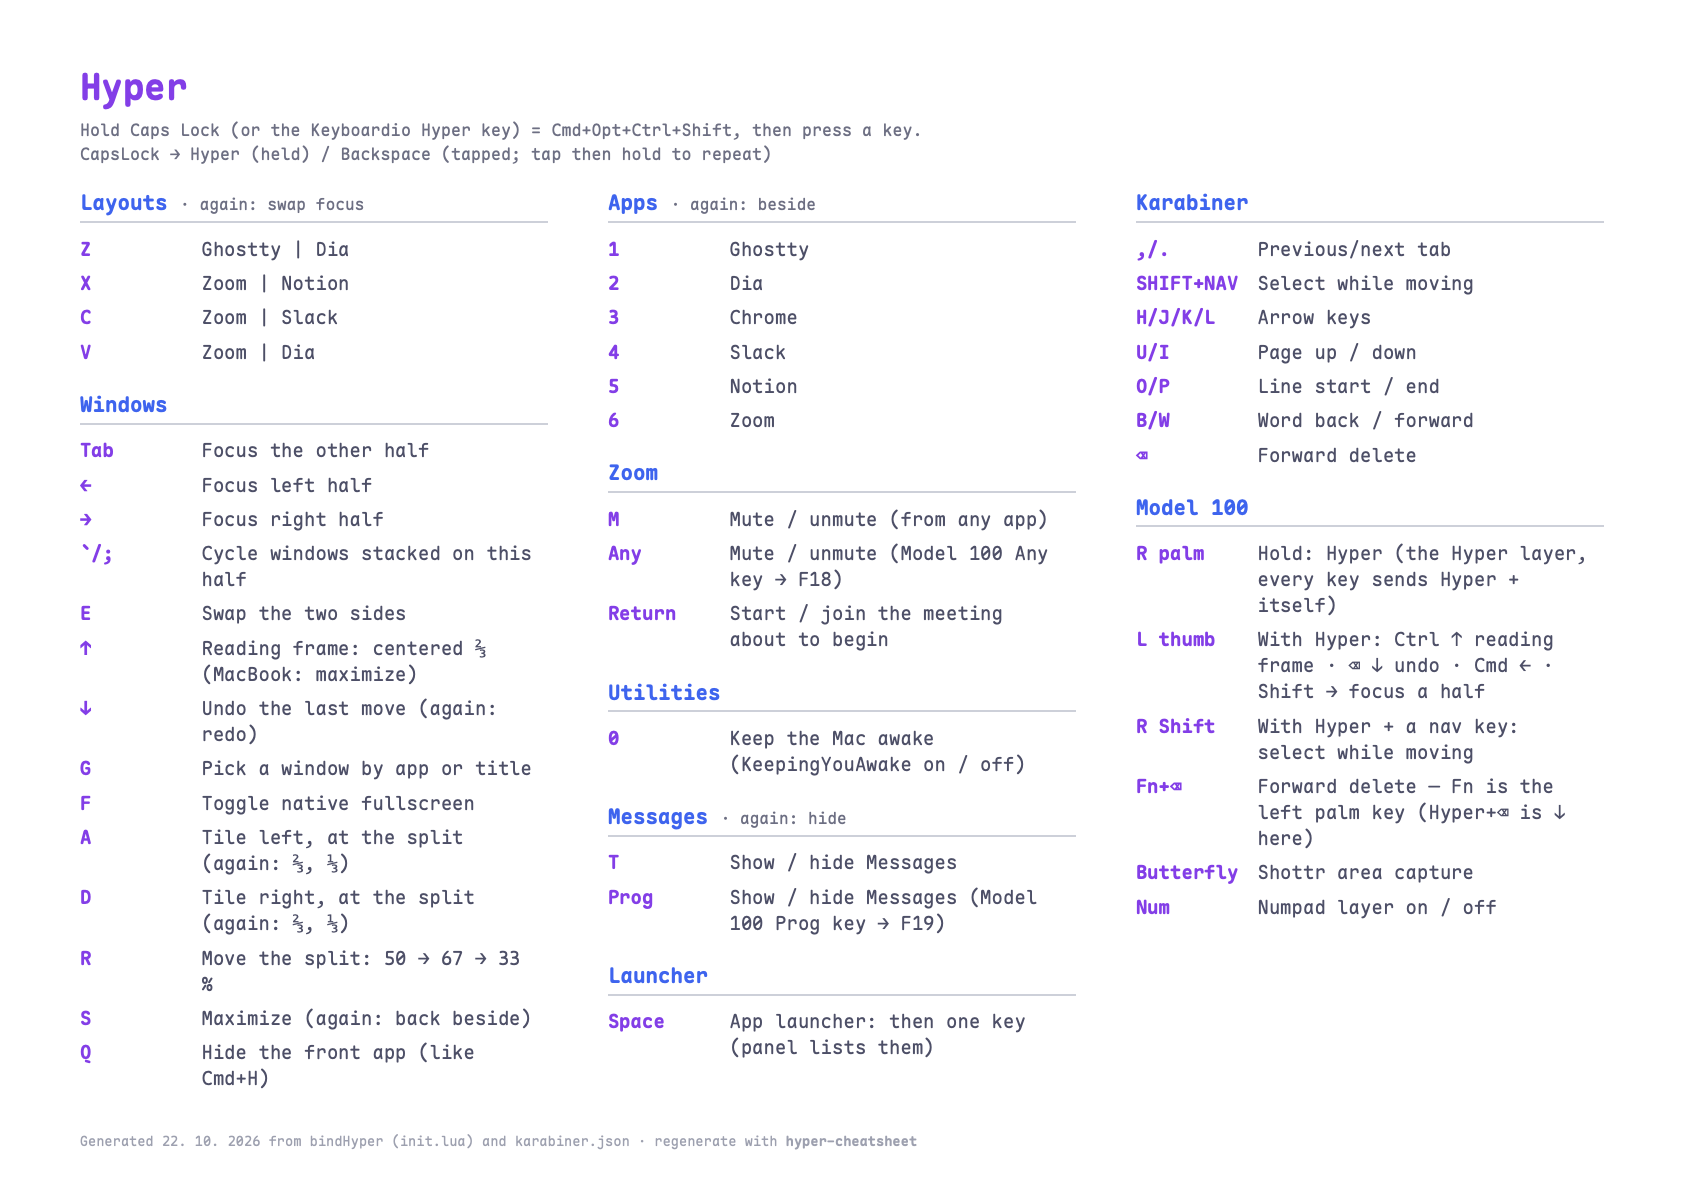
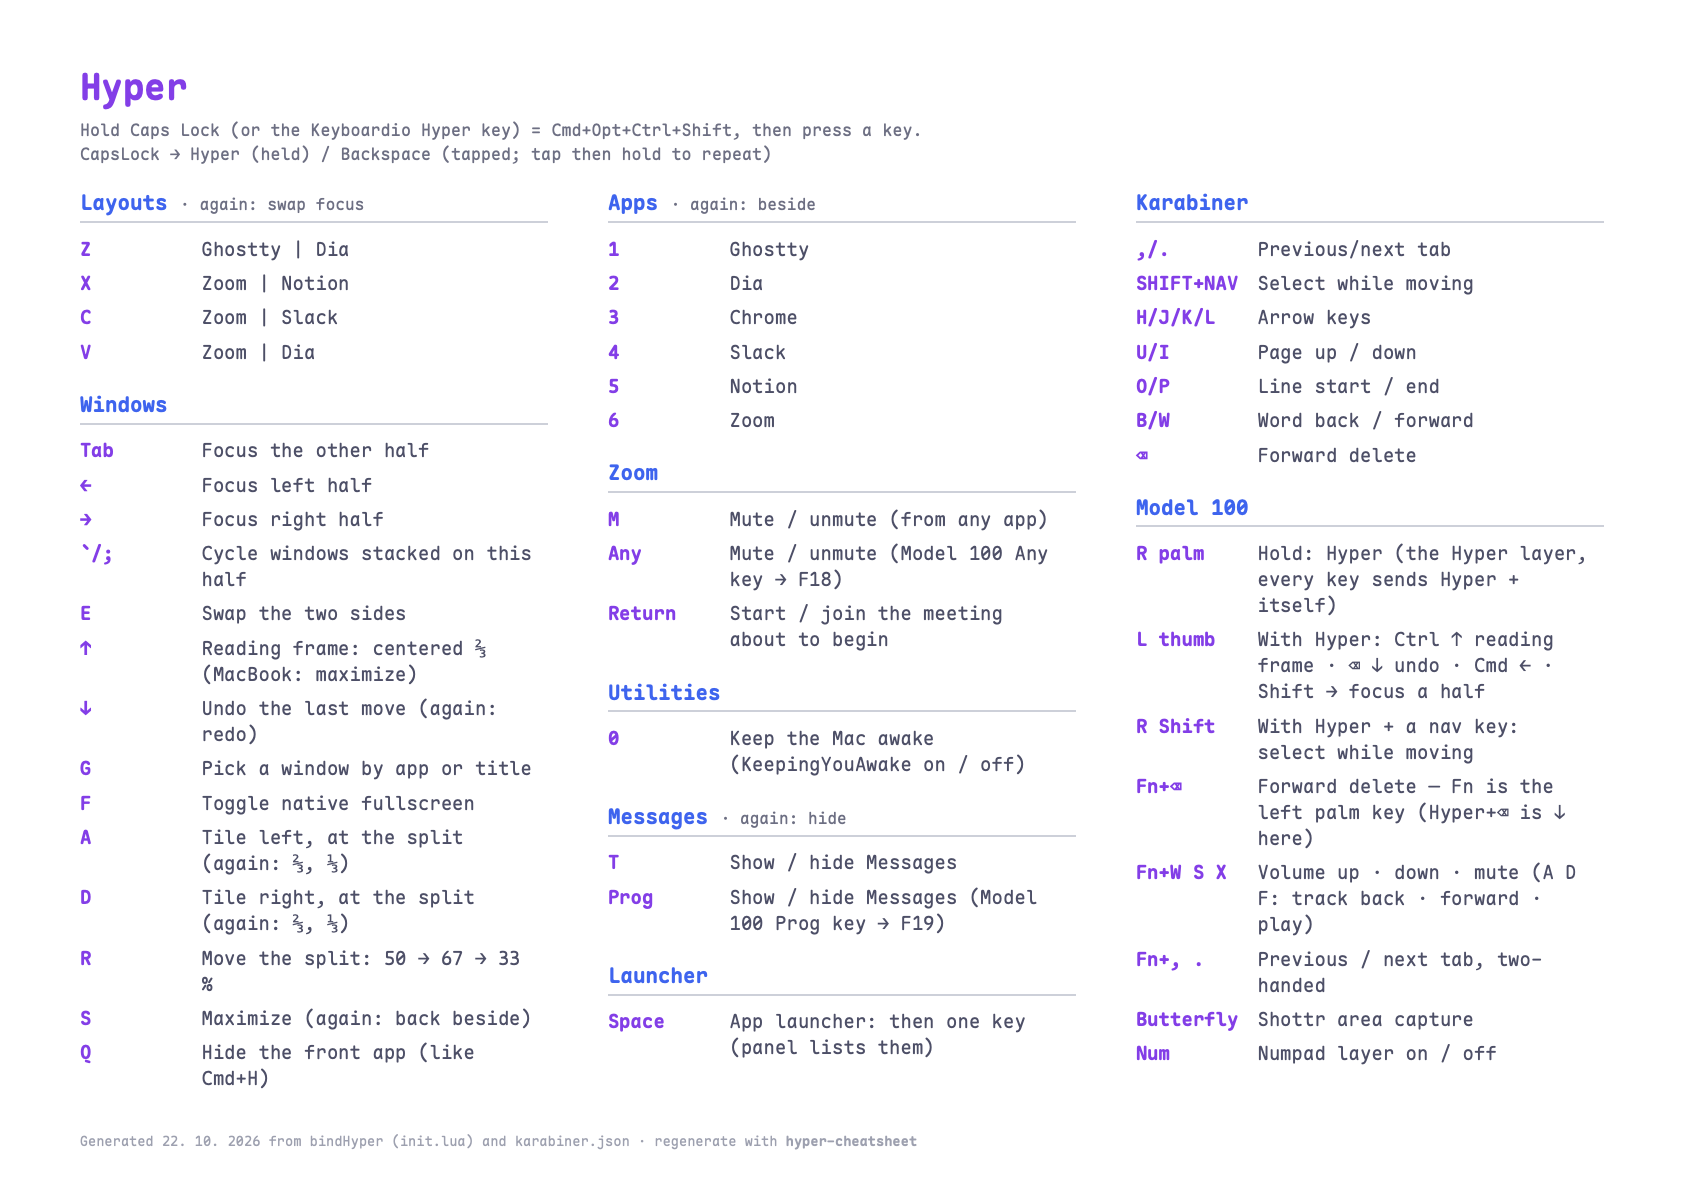
Keyboardio: media keys on WASD, Fn+,/. switch tabs
The stock Function layer put mute, volume down and volume up on N M , —
a row with no hint of which key goes which way. They move to WASD by
direction (W/S volume, X mute, A/D track, F play), where the mouse keys
were. Fn+,/. send Hyper+,/. so tab switching is a two-hand chord: Hyper is
the right palm, the same hand as , and . — Karabiner's tab rule does the
rest.

Dropped what a Mac with a trackpad never uses: mouse keys and warp,
Home/End, Print Screen, Insert, Caps Lock, Fn+Space = Enter. The layer is
now set by keyboardio-layers (FN_KEYS), so --apply keeps it.

Claude-Session: https://claude.ai/code/session_017TY8oaY6tYcNLjVXA5D1E8

Changed region(s): [[0.6793, 0.7151, 0.9264, 0.9017]]

diff --git a/GUIDE.md b/GUIDE.md
@@ -23,7 +23,7 @@ everything at once.
 | Command palette (every action, searchable) | `Cmd+Shift+P` |
 | Edit config | `Cmd+,` |
 | Reload config | `Cmd+Shift+,` |
-| Previous / next tab | `Hyper+,` / `Hyper+.` (Karabiner), `Ctrl+Shift+Tab` / `Ctrl+Tab`, or `Cmd+Shift+[` / `]` (U.S. layout only) |
+| Previous / next tab | `Hyper+,` / `Hyper+.` (Karabiner; Model 100: also `Fn+,` / `Fn+.`), `Ctrl+Shift+Tab` / `Ctrl+Tab`, or `Cmd+Shift+[` / `]` (U.S. layout only) |
 | Move tab left / right | `Ctrl+,` / `Ctrl+.` (the `<` `>` keys) |
 
 The quick terminal is a system-wide dropdown terminal — press
@@ -1086,6 +1086,31 @@ here, layer 0:
 | Butterfly | `Cmd+Shift+4` | Shottr area capture (its hotkey; macOS's own `Cmd+Shift+4` is off) |
 | Any | `F18` (custom code 109) | Zoom mute (Hammerspoon binds F18) |
 | Prog | `F19` (custom code 110) | Messages show / hide (Hammerspoon binds F19) |
+| Left palm key (Fn) | Holds the **Function layer** (below) | F-keys, arrows, brackets, media, tabs |
+
+The **Function layer** (hold the left palm key):
+
+| Keys | Fn gives |
+|---|---|
+| 1–0, Num, `=` | F1–F12 |
+| H J K L | ← ↓ ↑ → |
+| U I · O P · `/` `-` | `{` `}` · `[` `]` · `\` `\|` — the base layer has no `[ ] \` keys |
+| W / S · X | Volume up / down · Mute |
+| A / D · F | Previous / next track · Play/Pause |
+| `,` / `.` | Previous / next tab (sends Hyper+`,` / `.`) |
+| `` ` `` · ⌫ · Butterfly | Tab · Forward delete · Menu |
+
+The media keys sit on WASD by direction (up/down is volume, left/right the
+track, X under S mutes), where the stock layer had mouse keys; the stock
+row N M `,` (mute, down, up) gave no hint which key went which way. Also
+dropped from the stock layer, as useless with a trackpad on a Mac: mouse
+keys and pointer warp, Home/End (they scroll rather than move the cursor),
+Print Screen, Insert, Caps Lock and Fn+Space = Enter. **Fn+`,`/`.` are the tab
+keys as a two-hand chord**: Hyper is the right palm, the same hand as `,` and
+`.`, while Fn is the left. They send Hyper+`,`/`.`, so the Karabiner rule
+(Tabs, below) still does the rest. These changes are `FN_KEYS` in
+`keyboardio-layers`: change those keys there, not in Chrysalis — the next
+`--apply` writes them back.
 
 **Colors.** The LEDs run in Colormap mode with per-layer colors (Catppuccin
 Mocha's color families, saturated — its pastels read as near-white on LEDs;
@@ -1112,8 +1137,8 @@ brightness 200/255):
 
 - **Function** / **Numpad** — only their own keys lit, by kind: F-keys pink,
   arrows sky, media yellow, mouse keys green, brackets orange, editing and
-  navigation lavender; digits green, operators yellow. The key that gets you
-  back out of a layer stays white.
+  navigation lavender, the Fn layer's tab keys white; digits green, operators
+  yellow. The key that gets you back out of a layer stays white.
 
 The Numpad is on **layer 4**, not the stock layer 1: the firmware's stock NumPad
 plugin is tied to layer 1 and, while it's active, forces the number keys to its
@@ -1186,6 +1211,8 @@ Hyper page carries this table):
 | L thumb | With Hyper: Ctrl ↑ reading frame · ⌫ ↓ undo · Cmd ← · Shift → focus a half |
 | R Shift | With Hyper + a nav key: select while moving |
 | Fn+⌫ | Forward delete — Fn is the left palm key (Hyper+⌫ is ↓ here) |
+| Fn+W S X | Volume up · down · mute (A D F: track back · forward · play) |
+| Fn+, . | Previous / next tab, two-handed |
 | Butterfly | Shottr area capture |
 | Num | Numpad layer on / off |
 
@@ -1273,7 +1300,8 @@ MacBook, right ⌘ works too (right Shift is a stretch with Caps Lock held).
 | Hyper + . | Next tab |
 
 In every app: Ghostty, Chrome, Dia, Safari, Finder, VS Code (where Ctrl+Tab
-cycles recent editors). These have to live in Karabiner: macOS reserves
+cycles recent editors). On the Model 100, Fn+`,` / `.` send the same chords
+from the other hand (see the Function layer). These have to live in Karabiner: macOS reserves
 `Hyper+,`, `Hyper+.` and `Hyper+/` for sysdiagnose (a ~400 MB archive in
 `/private/var/tmp`) and swallows them before any app sees them. Karabiner runs
 first and rewrites them to `Ctrl+Shift+Tab` / `Ctrl+Tab` — not `Cmd+Shift+[` /
